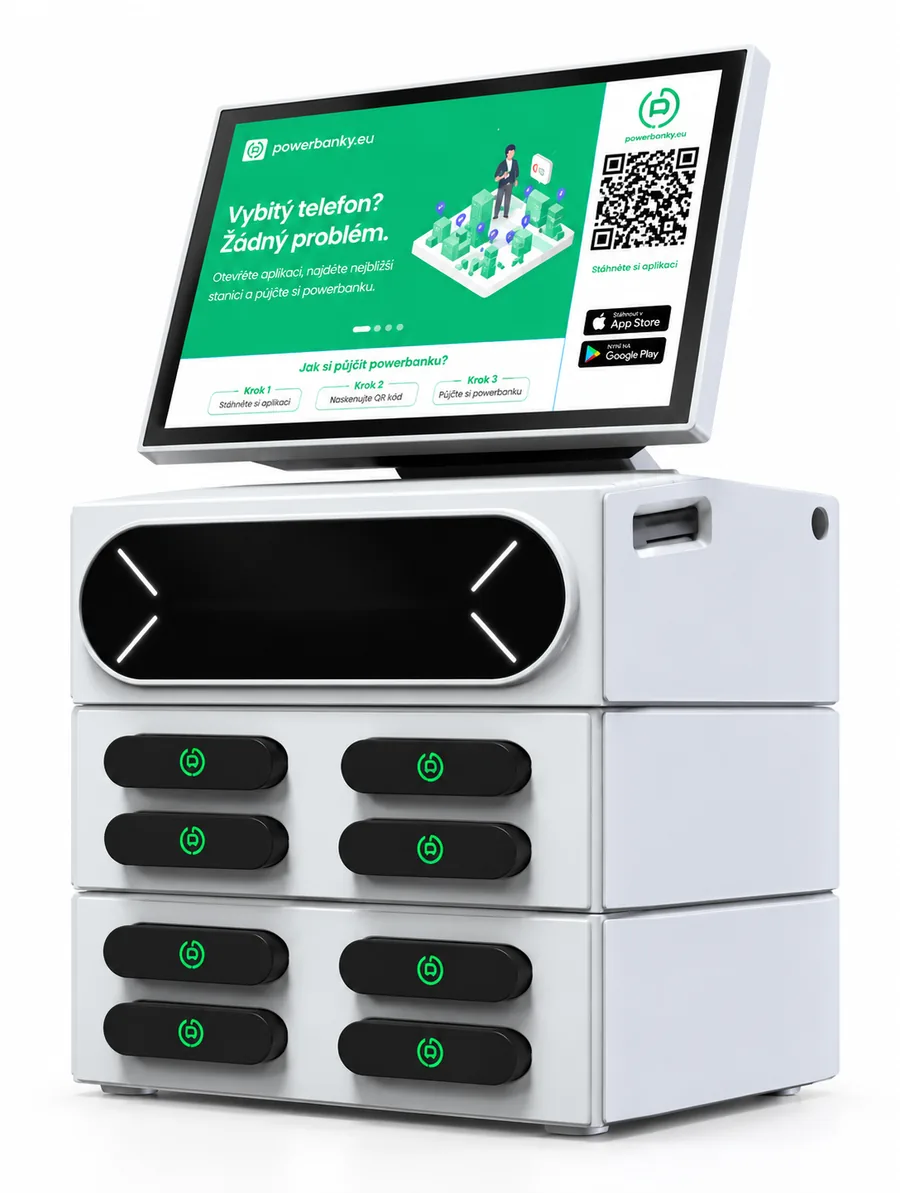
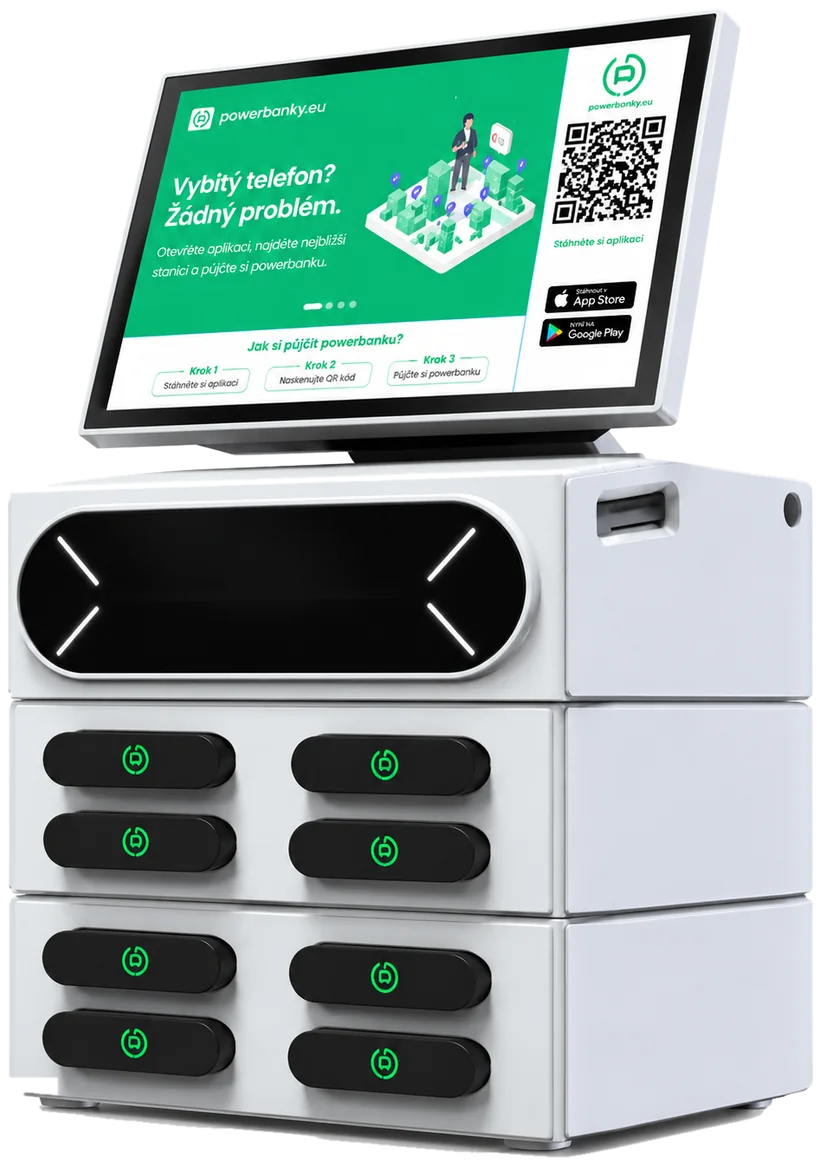
Cut-out station photos, mobile hero, about and benefits rework, polish
- Station photos re-cut with real transparency (no grey frames), soft drop shadow
- Hero: founder chip removed; proof line under the buttons; on mobile the
  headline and station photo sit above the fold
- '50+' claim changed to 'desítky podniků'
- About: new headline, white photo background, white founder avatars
- Calculator copy: new note and 'Váš měsíční výdělek'
- Benefits: two main points plus one combined sentence
- Impeccable polish: 44px tap targets, nav button no longer wraps at 375px

Claude-Session: https://claude.ai/code/session_01R1HoLqprxRuYxDgzMJTsmm

diff --git a/styles.css b/styles.css
@@ -57,7 +57,7 @@ h3 { font-size: 1.3rem; line-height: 1.15; letter-spacing: -0.03em; }
 .nav-links { display: flex; align-items: center; gap: 28px; font-weight: 500; }
 .nav-links a { text-decoration: none; }
 .nav-links a:not(.nav-cta):hover { text-decoration: underline; text-underline-offset: 5px; text-decoration-thickness: 1.5px; }
-.nav-cta { padding: 10px 18px; border: 1.5px solid var(--ink); border-radius: 999px; transition: background-color .15s ease, color .15s ease; }
+.nav-cta { white-space: nowrap; padding: 10px 18px; border: 1.5px solid var(--ink); border-radius: 999px; transition: background-color .15s ease, color .15s ease; }
 .nav-cta:hover { background: var(--ink); color: #fff; }
 
 /* ---------- Avatar ---------- */
@@ -72,14 +72,11 @@ h3 { font-size: 1.3rem; line-height: 1.15; letter-spacing: -0.03em; }
 .hero h1 { font-size: clamp(2.5rem, 4.7vw, 4.3rem); line-height: .98; max-width: 16ch; }
 .lead { margin-top: 28px; font-size: clamp(1.1rem, 1.5vw, 1.3rem); color: var(--muted); max-width: 46ch; }
 .actions { display: flex; flex-wrap: wrap; gap: 12px; margin-top: 36px; }
-.founder-chip { display: inline-flex; align-items: center; gap: 14px; margin-top: 40px; font-size: .95rem; color: var(--muted); text-decoration: none; }
-.founder-chip strong { color: var(--ink); }
-.founder-chip:hover strong { text-decoration: underline; text-underline-offset: 4px; }
 
-.hero-photo { position: relative; margin: 0; border-radius: 28px; background: var(--grey-soft); aspect-ratio: 5 / 5.6; display: flex; align-items: center; justify-content: center; overflow: hidden; }
-.hero-photo img { position: absolute; inset: 5% 4% 7%; width: 92%; height: 88%; object-fit: contain; mix-blend-mode: multiply; }
-.hero-badge { position: absolute; left: 20px; bottom: 20px; display: inline-flex; align-items: center; gap: 10px; padding: 10px 16px 10px 12px; border-radius: 999px; background: #fff; box-shadow: 0 2px 4px rgba(33,22,20,.06), 0 12px 28px -12px rgba(33,22,20,.3); font-weight: 600; font-size: .95rem; text-decoration: none; transition: transform .15s ease; }
-.hero-badge:hover { transform: translateY(-1px); }
+.hero-photo { position: relative; margin: 0; display: flex; justify-content: center; }
+.hero-photo img { width: auto; max-width: 100%; max-height: min(72vh, 640px); filter: drop-shadow(0 30px 30px rgba(33,22,20,.14)); }
+.hero-proof { display: inline-flex; align-items: center; gap: 12px; margin-top: 32px; font-weight: 600; color: var(--ink); text-decoration: none; }
+.hero-proof:hover { text-decoration: underline; text-decoration-color: var(--green); text-decoration-thickness: 2px; text-underline-offset: 5px; }
 .dot { width: 10px; height: 10px; border-radius: 50%; background: var(--green); box-shadow: 0 0 0 4px rgba(27,180,115,.22); }
 
 .facts { display: grid; grid-template-columns: repeat(3, 1fr); border-top: 1px solid var(--line); }
@@ -91,8 +88,7 @@ h3 { font-size: 1.3rem; line-height: 1.15; letter-spacing: -0.03em; }
 /* ---------- Stanice ---------- */
 .station { padding-block: var(--section); }
 .station-grid { display: grid; grid-template-columns: minmax(0, .9fr) minmax(0, 1.1fr); gap: clamp(32px, 6vw, 96px); align-items: center; }
-.station-photo { border-radius: 28px; background: var(--grey-soft); padding: clamp(24px, 4vw, 48px); }
-.station-photo img { width: min(100%, 420px); margin-inline: auto; mix-blend-mode: multiply; }
+.station-photo img { width: min(100%, 400px); margin-inline: auto; filter: drop-shadow(0 30px 30px rgba(33,22,20,.14)); }
 .specs { margin-top: 40px; border-top: 1px solid var(--line); }
 .specs > div { display: grid; grid-template-columns: minmax(0, 13rem) minmax(0, 1fr); gap: 8px 32px; padding-block: 22px; border-bottom: 1px solid var(--line); }
 .specs dt { font: 800 1.2rem/1.25 var(--font-head); letter-spacing: -0.03em; }
@@ -116,7 +112,7 @@ h3 { font-size: 1.3rem; line-height: 1.15; letter-spacing: -0.03em; }
 .place-cap { position: absolute; left: 12px; bottom: 12px; padding: 6px 12px; border-radius: 999px; background: #fff; font-size: .85rem; font-weight: 600; }
 .places-foot { display: flex; flex-wrap: wrap; align-items: baseline; justify-content: space-between; gap: 12px 32px; margin-top: 32px; }
 .places-foot p { color: var(--muted); }
-.places-foot b { font: 800 1.5rem/1 var(--font-head); letter-spacing: -0.04em; color: var(--ink); margin-right: 6px; }
+.places-foot b { font: 800 1.35rem/1 var(--font-head); letter-spacing: -0.03em; color: var(--ink); margin-right: 4px; }
 .text-link { font-weight: 700; text-decoration: underline; text-decoration-color: var(--green); text-decoration-thickness: 3px; text-underline-offset: 6px; }
 .text-link:hover { color: var(--green-deep); }
 
@@ -156,24 +152,27 @@ h3 { font-size: 1.3rem; line-height: 1.15; letter-spacing: -0.03em; }
 /* ---------- Proč ---------- */
 .why { padding-block: var(--section); border-top: 1px solid var(--line); }
 .why-grid { display: grid; grid-template-columns: minmax(0, .85fr) minmax(0, 1.15fr); gap: clamp(32px, 6vw, 96px); align-items: start; }
-.why-list { display: grid; grid-template-columns: repeat(2, minmax(0, 1fr)); gap: clamp(36px, 4vw, 56px) clamp(24px, 4vw, 48px); padding-top: 8px; }
-.why-list h3 { font-size: clamp(1.35rem, 2vw, 1.65rem); }
-.why-list p { margin-top: 12px; color: var(--muted); }
-.why-list li::before { content: ""; display: block; width: 28px; height: 6px; margin-bottom: 20px; border-radius: 3px; background: var(--green); }
+.why-list { display: grid; grid-template-columns: repeat(2, minmax(0, 1fr)); gap: clamp(24px, 4vw, 48px); padding-top: 8px; }
+.why-list h3 { font-size: clamp(1.5rem, 2.4vw, 2rem); line-height: 1.08; }
+.why-list p { margin-top: 14px; color: var(--muted); font-size: 1.1rem; }
+.why-list li::before { content: ""; display: block; width: 32px; height: 6px; margin-bottom: 22px; border-radius: 3px; background: var(--green); }
+.why-more { margin-top: clamp(36px, 4vw, 52px); padding-top: 28px; border-top: 1px solid var(--line); font-size: clamp(1.1rem, 1.5vw, 1.25rem); max-width: 56ch; }
 
 /* ---------- Kdo jsme ---------- */
 .team { padding-block: var(--section); background: var(--ink); color: #fff; }
 .team-grid { display: grid; grid-template-columns: minmax(0, .9fr) minmax(0, 1.1fr); gap: clamp(32px, 6vw, 96px); align-items: center; }
-.team-photo { position: relative; border-radius: 28px; overflow: hidden; background: var(--green); aspect-ratio: 4 / 4.6; display: flex; align-items: flex-end; justify-content: center; }
+.team-photo { position: relative; border-radius: 28px; overflow: hidden; background: #fff; aspect-ratio: 4 / 4.6; display: flex; align-items: flex-end; justify-content: center; }
 .team-photo img { width: 92%; }
-.team-photo figcaption { position: absolute; left: 16px; bottom: 16px; padding: 8px 14px; border-radius: 999px; background: #fff; color: var(--ink); font-weight: 600; font-size: .9rem; }
+.team-photo figcaption { position: absolute; left: 16px; bottom: 16px; padding: 8px 14px; border-radius: 999px; background: var(--ink); color: #fff; font-weight: 600; font-size: .9rem; }
 .team h2 { color: #fff; max-width: 15ch; }
 .team-copy > p { margin-top: 20px; color: #D2CCCA; max-width: 52ch; font-size: 1.1rem; }
 .team-copy > p:first-of-type { margin-top: 28px; }
+.team h2 { max-width: 18ch; }
 .founders { display: flex; flex-wrap: wrap; gap: 16px 40px; margin: 36px 0 40px; padding-top: 28px; border-top: 1px solid rgba(255,255,255,.16); }
 .founders li { display: flex; align-items: center; gap: 14px; }
 .founders strong { display: block; font-weight: 700; color: #fff; }
 .founders li > span:last-child { color: #BDB5B3; font-size: .95rem; }
+.team .avatar { background: #fff; }
 .team .avatar--empty { background: #3B2E2B; color: #BDB5B3; }
 .team .btn { background: var(--green); border-color: var(--green); color: var(--ink); }
 .team .btn:hover { background: var(--green-hover); border-color: var(--green-hover); }
@@ -219,12 +218,23 @@ h3 { font-size: 1.3rem; line-height: 1.15; letter-spacing: -0.03em; }
 .footer-links a:hover { color: var(--ink); text-decoration: underline; text-underline-offset: 4px; }
 .footer-note { color: var(--muted); font-size: .9rem; }
 
+/* ---------- Tap targets (≥44px without shifting layout) ---------- */
+.logo, .hero-proof, .text-link, .footer-links a { padding-block: 12px; margin-block: -12px; }
+.footer-links a { display: inline-block; }
+.calc-input input { height: 44px; }
+
 /* ---------- Responsive ---------- */
 @media (max-width: 960px) {
   .nav-links a:not(.nav-cta) { display: none; }
   .hero-grid, .station-grid, .why-grid, .team-grid, .faq-grid, .contact-grid, .how-grid { grid-template-columns: 1fr; }
-  .hero-photo { aspect-ratio: 4 / 4.2; }
-  .hero-photo img { inset: 4% 4% 20%; height: 76%; }
+  .hero-grid { gap: 0; padding-block: 12px 40px; }
+  .hero-copy { display: contents; }
+  .hero h1 { order: 1; }
+  .hero-photo { order: 2; margin-top: 20px; }
+  .hero-photo img { max-height: min(40svh, 340px); }
+  .hero-proof { order: 5; margin-top: 20px; }
+  .lead { order: 3; margin-top: 24px; }
+  .actions { order: 4; margin-top: 24px; }
   .calc { position: static; }
   .place { width: 220px; height: 290px; }
   .place--wide { width: 340px; }
@@ -234,6 +244,8 @@ h3 { font-size: 1.3rem; line-height: 1.15; letter-spacing: -0.03em; }
   .team-photo { max-width: 460px; }
 }
 @media (max-width: 600px) {
+  .nav-cta { padding: 9px 14px; font-size: .95rem; }
+  .logo { font-size: 1.05rem; }
   .specs > div { grid-template-columns: 1fr; }
   .why-list { grid-template-columns: 1fr; }
   .form { grid-template-columns: 1fr; }

diff --git a/index.html b/index.html
@@ -46,15 +46,11 @@
             <a class="btn" href="#kontakt">Chci stanici zdarma</a>
             <a class="btn btn--ghost" href="#jak">Kolik vyděláte</a>
           </div>
-          <a class="founder-chip" href="#kdo-jsme">
-            <span class="avatar" aria-hidden="true">OH<img src="assets/img/oliver.webp" alt="" width="44" height="44" onerror="this.remove()"></span>
-            <span><strong>Oliver Huml</strong>, spoluzakladatel<br>Ozveme se vám osobně do 24 hodin.</span>
-          </a>
+          <a class="hero-proof" href="#mista"><span class="dot" aria-hidden="true"></span>Už v&nbsp;desítkách podniků po celé ČR</a>
         </div>
 
         <figure class="hero-photo">
-          <img src="assets/img/stanice-z-boku.webp" alt="Nabíjecí stanice powerbanky.eu s displejem a osmi powerbankami" width="900" height="1193" fetchpriority="high">
-          <a class="hero-badge" href="#mista"><span class="dot" aria-hidden="true"></span>Už v&nbsp;50+ podnicích po celé ČR</a>
+          <img src="assets/img/stanice-z-boku.webp" alt="Nabíjecí stanice powerbanky.eu s displejem a osmi powerbankami" width="820" height="1164" fetchpriority="high">
         </figure>
       </div>
 
@@ -68,7 +64,7 @@
     <!-- Místa -->
     <section class="places" id="mista">
       <div class="wrap places-head">
-        <h2>Stanice už stojí ve více než 50&nbsp;podnicích.</h2>
+        <h2>Stanice už stojí v&nbsp;desítkách podniků.</h2>
         <p class="section-lead">Kavárny, bary, restaurace i&nbsp;kluby po celé České republice. A&nbsp;každý měsíc přibývají další.</p>
       </div>
       <div class="marquee" aria-label="Ukázky podniků se stanicí powerbanky.eu">
@@ -160,7 +156,7 @@
         </div>
       </div>
       <div class="wrap places-foot">
-        <p><b>50+</b> podniků po celé ČR</p>
+        <p><b>Desítky podniků</b> po celé ČR, a&nbsp;další přibývají</p>
         <a class="text-link" href="#kontakt">Přidejte se k&nbsp;nim</a>
       </div>
     </section>
@@ -208,10 +204,10 @@
             <div><dt>Náklady na stanici a&nbsp;servis</dt><dd>0 Kč</dd></div>
           </dl>
           <div class="calc-result">
-            <span>Vaše polovina měsíčně</span>
+            <span>Váš měsíční výdělek</span>
             <strong id="calc-share">4 500 Kč</strong>
           </div>
-          <p class="note" id="calc-note">Počítáme s&nbsp;průměrnou tržbou 100 Kč za výpůjčku a&nbsp;30 dny v&nbsp;měsíci.</p>
+          <p class="note" id="calc-note">Běžná tržba se pohybuje okolo 100&nbsp;Kč, kalkulačka počítá s&nbsp;30&nbsp;dny v&nbsp;měsíci.</p>
         </div>
       </div>
     </section>
@@ -220,7 +216,7 @@
     <section class="station" id="stanice">
       <div class="wrap station-grid">
         <figure class="station-photo">
-          <img src="assets/img/stanice-zepredu.webp" alt="Stanice zepředu: displej nahoře, osm powerbank pod ním" width="900" height="1193" loading="lazy">
+          <img src="assets/img/stanice-zepredu.webp" alt="Stanice zepředu: displej nahoře, osm powerbank pod ním" width="820" height="1306" loading="lazy">
         </figure>
         <div class="station-copy">
           <h2>Stanice, která se o&nbsp;sebe postará sama.</h2>
@@ -240,24 +236,19 @@
         <div class="why-head">
           <h2>Co z&nbsp;toho má váš podnik.</h2>
         </div>
-        <ul class="why-list">
-          <li>
-            <h3>Hosté zůstanou déle</h3>
-            <p>Vybitý telefon je nejčastější důvod, proč host zaplatí a&nbsp;odejde. S&nbsp;nabitým si dá ještě jedno kafe.</p>
-          </li>
-          <li>
-            <h3>Lidé k&nbsp;vám přijdou i&nbsp;vracet</h3>
-            <p>Powerbanku jde vrátit do kterékoli naší stanice. Každé vrácení je nový host, který k&nbsp;vám přišel.</p>
-          </li>
-          <li>
-            <h3>Personál nemusí nic řešit</h3>
-            <p>Půjčování i&nbsp;placení běží přes aplikaci. Když něco nefunguje, hosté i&nbsp;vy voláte nám.</p>
-          </li>
-          <li>
-            <h3>Nic neriskujete</h3>
-            <p>Stanice i&nbsp;powerbanky zůstávají naše. Nic nekupujete a&nbsp;za provoz neplatíte.</p>
-          </li>
-        </ul>
+        <div class="why-body">
+          <ul class="why-list">
+            <li>
+              <h3>Personál nemusí nic řešit</h3>
+              <p>Půjčování i&nbsp;placení běží přes aplikaci. Když něco nefunguje, hosté i&nbsp;vy voláte nám.</p>
+            </li>
+            <li>
+              <h3>Nic neriskujete</h3>
+              <p>Stanice i&nbsp;powerbanky zůstávají naše. Nic nekupujete a&nbsp;za provoz neplatíte.</p>
+            </li>
+          </ul>
+          <p class="why-more">A&nbsp;navíc: s&nbsp;nabitým telefonem hosté zůstanou déle a&nbsp;k&nbsp;vám přijdou i&nbsp;lidé, kteří si powerbanku půjčili jinde a&nbsp;jdou ji vrátit.</p>
+        </div>
       </div>
     </section>
 
@@ -269,8 +260,7 @@
           <figcaption>Oliver Huml</figcaption>
         </figure>
         <div class="team-copy">
-          <h2>Jsme dva studenti, kterým docházela baterka.</h2>
-          <p>Celý den ve škole, večer s&nbsp;kamarády, a&nbsp;telefon na 4&nbsp;%. Nabíječka zůstala doma a&nbsp;v&nbsp;kavárně nám mohli nabídnout leda zásuvku u&nbsp;záchodů. Tak jsme si řekli, že to zkusíme vyřešit sami.</p>
+          <h2>Univerzitní projekt, který drží baterku na 100% nabitou.</h2>
           <p>powerbanky.eu stavíme při studiu. Stanice vozíme a&nbsp;zapojujeme sami, podniky obcházíme osobně a&nbsp;telefon, který najdete na stanici, zvedá jeden z&nbsp;nás. Žádné call centrum, žádná přepojování.</p>
           <ul class="founders">
             <li><span class="avatar avatar--lg" aria-hidden="true">OH<img src="assets/img/oliver.webp" alt="" width="56" height="56" onerror="this.remove()"></span><span><strong>Oliver Huml</strong>Spoluzakladatel</span></li>
